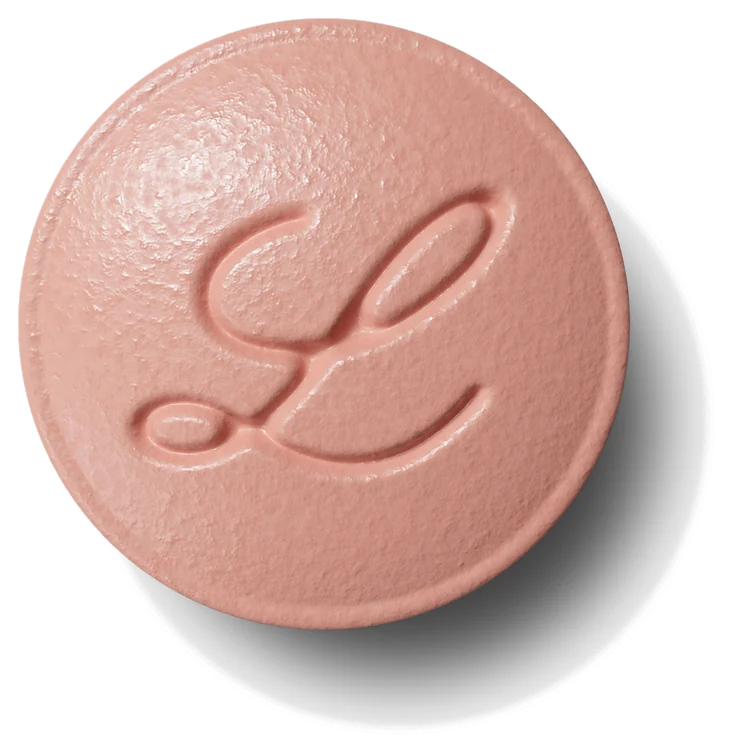
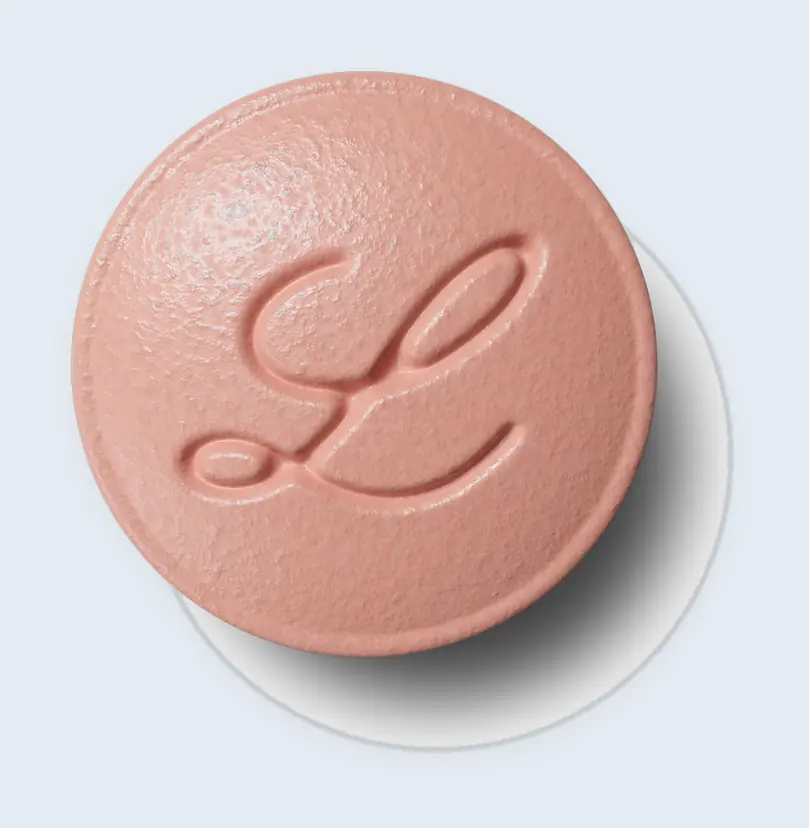
Bake product stills onto the clinic stage.
Composite the official cutouts on the stage color and drop the palette query switch so the public page stays on the clinic gray.

diff --git a/app/layout.tsx b/app/layout.tsx
@@ -1,6 +1,5 @@
 import type { Metadata } from "next";
 import { Newsreader, Public_Sans } from "next/font/google";
-import Script from "next/script";
 import "./globals.css";
 
 const serif = Newsreader({
@@ -24,12 +23,7 @@ export const metadata: Metadata = {
 export default function RootLayout({ children }: { children: React.ReactNode }) {
   return (
     <html lang="en" className={`${serif.variable} ${sans.variable}`} data-palette="clinic">
-      <body>
-        <Script id="palette" strategy="beforeInteractive">
-          {`try{var p=new URLSearchParams(location.search).get('palette');if(p==='paper'||p==='clinic')document.documentElement.dataset.palette=p}catch(e){}`}
-        </Script>
-        {children}
-      </body>
+      <body>{children}</body>
     </html>
   );
 }

diff --git a/app/globals.css b/app/globals.css
@@ -87,7 +87,6 @@ button, img { user-select: none; }
   width: 100%;
   height: 100%;
   object-fit: contain;
-  filter: drop-shadow(var(--shadow));
 }
 
 .label {
@@ -278,5 +277,4 @@ button, img { user-select: none; }
 
 @media (prefers-reduced-motion: reduce) {
   .scene { animation: none; }
-  .product { filter: none; }
 }

diff --git a/BUILD_NOTE.md b/BUILD_NOTE.md
@@ -20,7 +20,7 @@ The shipped stage is the cool clinic gray. The Wegovy tablet is a very light ova
 
 Forecast colors encode the year of the estimate. They are not a winner scale. The 30-minute cue uses the wait color only on the Wegovy scene.
 
-`?palette=paper` still loads the rejected direction for this comparison. The public URL with no query is the clinic stage.
+The rejected paper stage is not switchable on the public site. Product stills are composited on `#E4EBF1` so the cutout sits on the stage without a box.
 
 ## Assets
 
